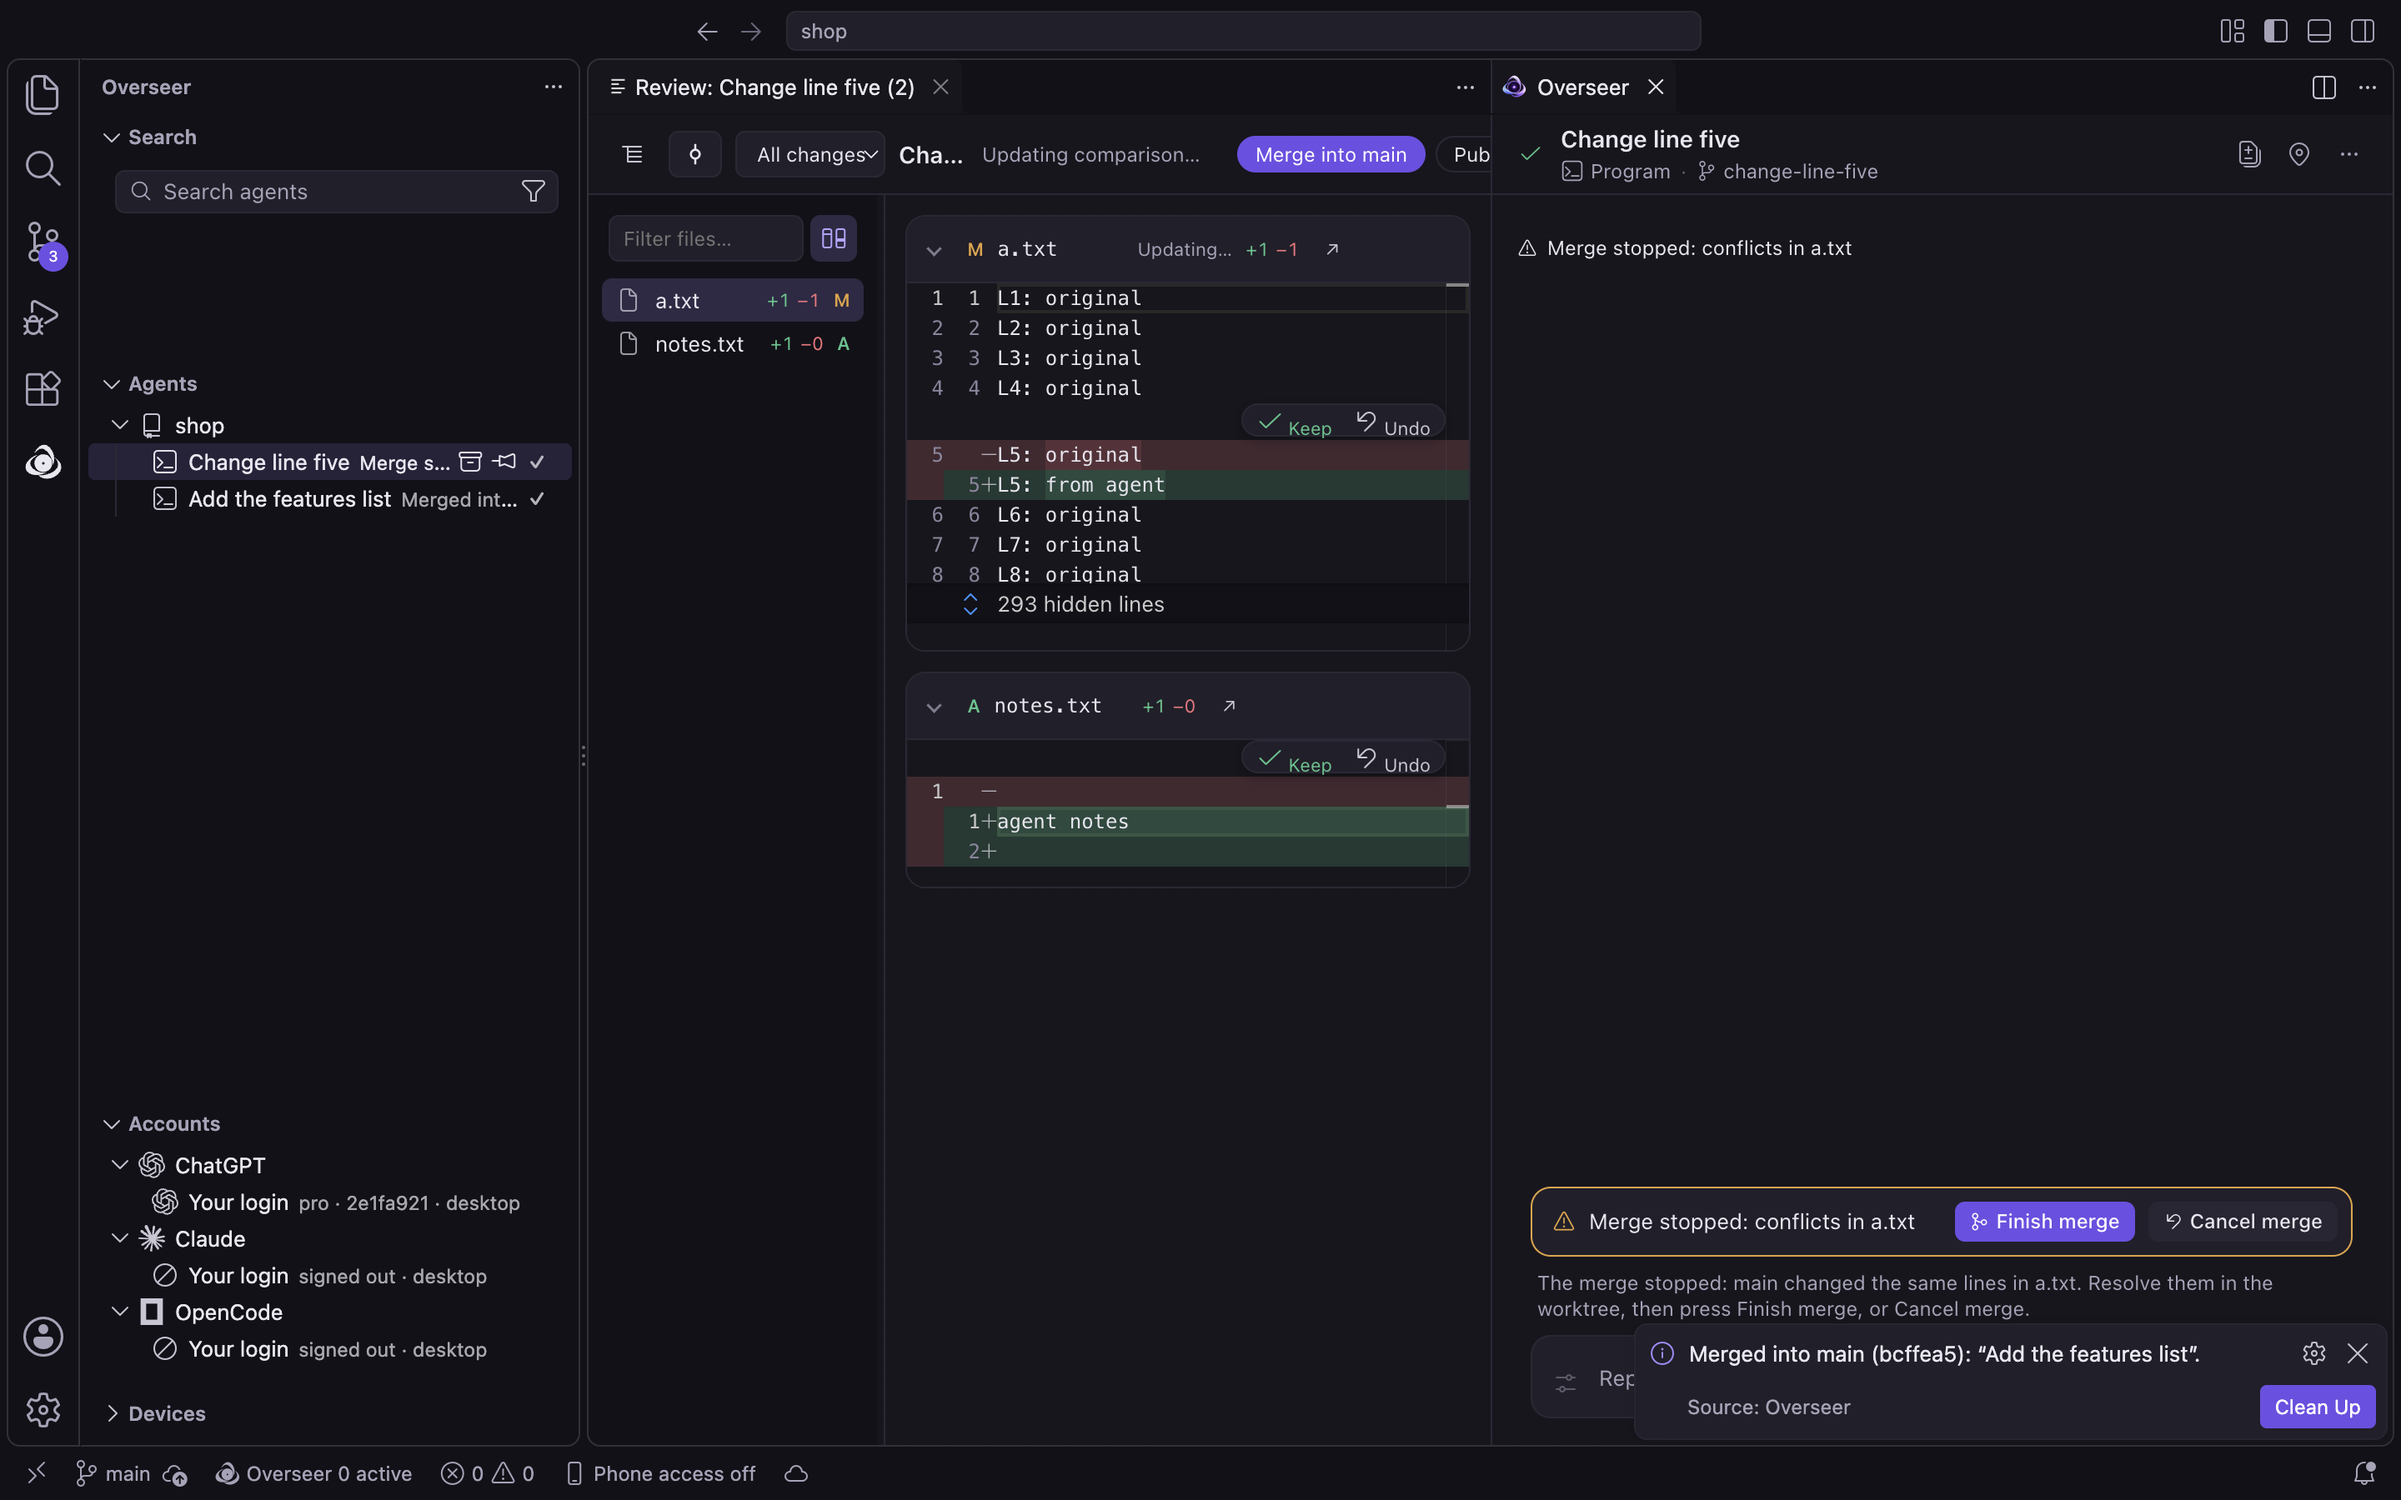
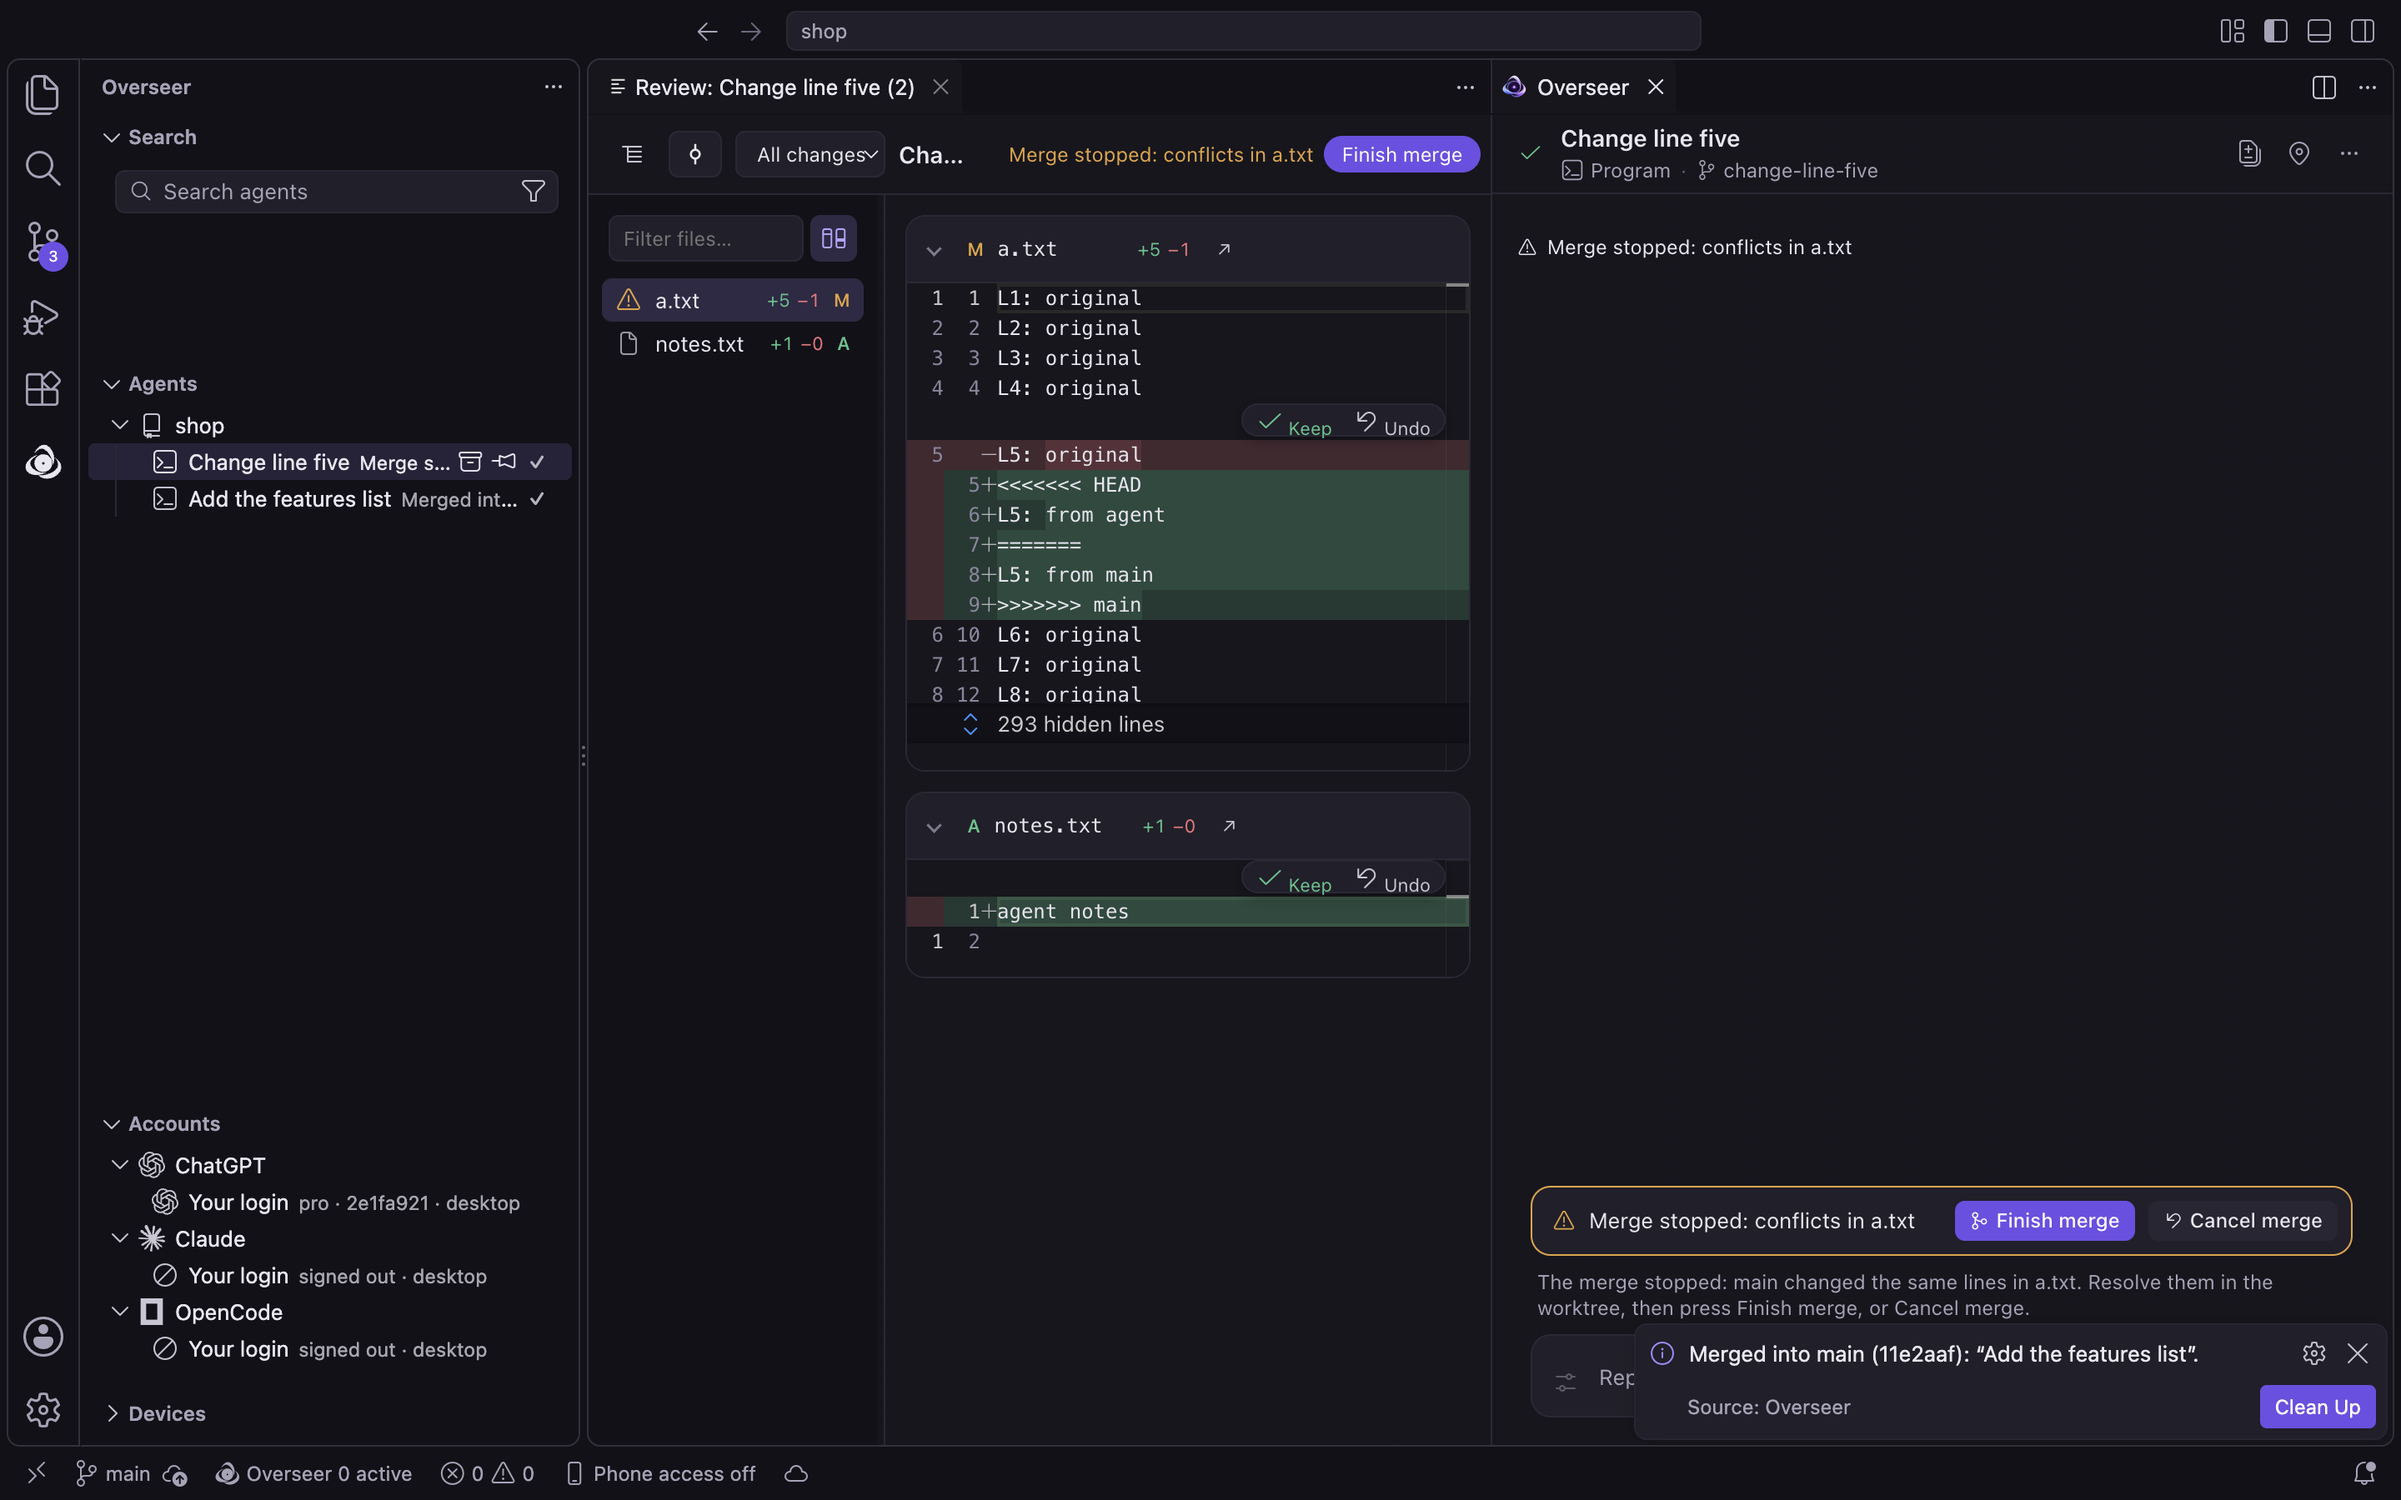
fix(review): a new file is all added lines, with no blank removed line above them (AC-232)
Monaco's fast path for an empty original mapped its one empty line onto the new text.
build-review.js patches it at build time: when the new text ends with a newline, its lines
are a pure insertion (which also gives the hunk the key the daemon and the phone compute).
The chat's merge bar keeps its words visible beside its buttons in a narrow chat.

diff --git a/extension/branch-diff/scripts/build-review.js b/extension/branch-diff/scripts/build-review.js
@@ -9,12 +9,24 @@ for (const name of ['monaco-editor', 'esbuild']) {
   if (installed.version !== expected.devDependencies[name]) throw new Error(`Install locked review tools before packaging: ${name}`);
 }
 const esbuild = require(path.join(toolRoot, 'node_modules/esbuild'));
+// Overseer (AC-232): a new file is all added lines. Monaco's fast path for an empty original maps its
+// one empty line onto the new text, drawing a blank removed line above the added ones. When the new
+// text ends with a newline, the empty line is its last line: the new lines are a pure insertion.
+const EMPTY_ORIGINAL = 'new DetailedLineRangeMapping(new LineRange(1, 2), new LineRange(1, modified.getLineCount() + 1), [';
+const newFileIsAdded = { name: 'overseer-new-file-is-added', setup(build) {
+  build.onLoad({ filter: /diffEditor[\\/]diffProviderFactoryService\.js$/ }, async args => {
+    const source = fs.readFileSync(args.path, 'utf8');
+    if (!source.includes(EMPTY_ORIGINAL)) throw new Error('Monaco changed its empty-original diff: update build-review.js');
+    const last = 'modified.getLineCount() > 1 && modified.getLineMaxColumn(modified.getLineCount()) === 1';
+    return { contents: source.replace(EMPTY_ORIGINAL, `new DetailedLineRangeMapping(${last} ? new LineRange(1, 1) : new LineRange(1, 2), new LineRange(1, modified.getLineCount() + (${last} ? 0 : 1)), [`), loader: 'js' };
+  });
+} };
 async function build() {
   const outdir = path.join(root, 'dist');
   fs.mkdirSync(outdir, { recursive: true });
   for (const file of fs.readdirSync(outdir)) fs.rmSync(path.join(outdir, file), { recursive: true });
   const common = { absWorkingDir: root, bundle: true, minify: true, target: 'chrome130', logLevel: 'warning',
-    nodePaths: [path.join(toolRoot, 'node_modules')], loader: { '.ttf': 'file' }, legalComments: 'eof', metafile: true };
+    nodePaths: [path.join(toolRoot, 'node_modules')], loader: { '.ttf': 'file' }, legalComments: 'eof', metafile: true, plugins: [newFileIsAdded] };
   const worker = await esbuild.build({ ...common, entryPoints: [path.join(toolRoot, 'node_modules/monaco-editor/esm/vs/editor/editor.worker.js')],
     outfile: path.join(outdir, 'editor.worker.js'), format: 'iife', write: false, footer: { js: 'globalThis.postMessage({type: "branch-diff-worker-ready"});' } });
   const statistics = await esbuild.build({ ...common, entryPoints: ['review/statistics-worker.js'], outfile: path.join(outdir, 'statistics.worker.js'), format: 'iife', write: false });

diff --git a/test/ui/scenario-review-merge.js b/test/ui/scenario-review-merge.js
@@ -62,6 +62,8 @@ const { Session, makeRepo, latestVsix, delay, git } = require('./harness');
     check('the review counts the committed new file (never "0 files") and shows it added, every line', shown && shown.count === '2' && /^2 files/.test(shown.total) && row.status === 'A' && !row.browsed && row.added === '2' && row.removed === '0' && shown.rows.some(r => r.path === '.env' && r.status === 'A'), shown);
     const words = await review.waitFor(`(() => { const e = [...document.querySelectorAll('.diff-file')].find(e => e.querySelector('.file-path').textContent === 'data/features.js'); const s = e && e.querySelector('.save-file'); const hunk = e && e.querySelector('.hunk-actions'); if (!s || !hunk) return null; return { save: s.textContent, saveHidden: s.hidden, saveTitle: s.title, keep: hunk.querySelector('.hunk-accept').textContent, undo: hunk.querySelector('.hunk-reject').textContent, keepTitle: hunk.querySelector('.hunk-accept').title, undoTitle: hunk.querySelector('.hunk-reject').title }; })()`, 20000).catch(() => null);
     check('Save says what it does ("Save your changes to the agent\'s copy") and shows only once you have edits', words && words.save === "Save your changes to the agent's copy" && words.saveHidden && /does not keep or undo/.test(words.saveTitle), words);
+    const newFile = await review.eval(`(() => { const e = [...document.querySelectorAll('.diff-file')].find(e => e.querySelector('.file-path').textContent === 'data/features.js'); return { deleted: e.querySelectorAll('.line-delete, .inline-deleted-margin-view-zone').length, inserted: e.querySelectorAll('.line-insert').length, hunks: e.dataset.hunks, lines: [...e.querySelectorAll('.editor.modified .view-lines .view-line')].map(l => l.textContent) }; })()`);
+    check('the new file is all added lines: no removed line above them, one hunk', newFile.deleted === 0 && newFile.inserted >= 2 && newFile.hunks === '1', newFile);
     check("each hunk is a clear choice: Keep (the agent's change stays) or Undo (put back what was there)", words && words.keep === 'Keep' && words.undo === 'Undo' && /change stays/.test(words.keepTitle) && /put back/.test(words.undoTitle), words);
 
     // ---- 2. No remote: Merge into main and Publish to GitHub, never Open PR or a dialog.

diff --git a/extension/media/chat.css b/extension/media/chat.css
@@ -174,13 +174,14 @@ pre.code.error { color: var(--ov-failed); }
 /* AC-243: a finished agent's work: Merge into main, Open PR, or Merged into main (commit) and Clean up. */
 .land-bar { display: flex; align-items: center; gap: var(--ov-space-2); padding: var(--ov-space-2) var(--ov-space-2) var(--ov-space-2) var(--ov-space-3); border-radius: var(--ov-radius-card); border: 1px solid var(--ov-border); background: var(--ov-raised); }
 .land-bar[hidden] { display: none; }
-.land-bar .land-text { flex: 1; min-width: 0; overflow: hidden; text-overflow: ellipsis; white-space: nowrap; }
+.land-bar .land-text { flex: 1 1 8ch; min-width: 6ch; overflow: hidden; text-overflow: ellipsis; white-space: nowrap; }
 .land-bar > .codicon { color: var(--ov-icon); }
 .land-bar[data-state="merged"] { border-color: var(--ov-done); }
 .land-bar[data-state="merged"] > .codicon { color: var(--ov-done); }
 .land-bar[data-state="conflicts"] { border-color: var(--ov-waiting); }
 .land-bar[data-state="conflicts"] > .codicon { color: var(--ov-waiting); }
-.land-bar .btn { flex: none; display: inline-flex; align-items: center; gap: 4px; }
+.land-bar .btn { flex: 0 1 auto; min-width: 0; display: inline-flex; align-items: center; gap: 4px; overflow: hidden; white-space: nowrap; }
+.land-bar .btn > span { overflow: hidden; text-overflow: ellipsis; }
 .composer { display: flex; flex-direction: column; gap: 6px; padding: 10px 10px 8px 14px; border-radius: var(--ov-radius-card); border: 1px solid var(--ov-border); background: var(--ov-raised); transition: border-color var(--ov-motion-fast); }
 .composer:focus-within { border-color: var(--ov-focus); }
 .composer textarea { width: 100%; resize: none; border: none; background: transparent; padding: 2px 0; min-height: 22px; max-height: 240px; line-height: 1.5; color: var(--ov-input-fg); outline: none; }
